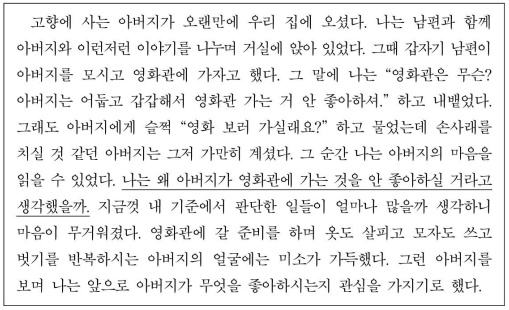
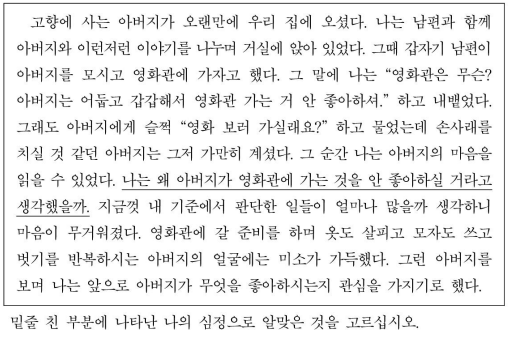
문제 title 출력

Changed region(s): [[0.0, 0.0, 1.0, 0.7839], [0.0, 0.9, 1.0, 0.9871], [0.0295, 0.8129, 0.9725, 0.871]]

diff --git a/NODE/routes/index.js b/NODE/routes/index.js
@@ -2,10 +2,9 @@ var express = require('express');
 const dbcon = require("../config/db_con");
 var router = express.Router();
 
-/* GET home page. */
 router.get('/', function(req, res, next) {
   console.log(req.session);
-  res.render('index', { title: 'Express', user_id : req.session.user_id });
+  res.render('index', { title: 'Dambi Topik', user_id : req.session.user_id });
 });
 router.get('/logout', function(req, res, next) {
   req.session.destroy(function(){ req.session;});  
@@ -16,8 +15,9 @@ router.get('/test',async  function(req, res, next) {
   var num = req.query.num++;
   var a=206000+num;
   var [quetion] = await dbcon("SELECT * FROM quetion WHERE code = ?",[a]);
+  var title=showTitle(num);
   req.session.answ = quetion.answ;
-  res.render('test', {answ : quetion.answ,num1 : quetion.num1, num2 : quetion.num2, num3 : quetion.num3 , num4 : quetion.num4 ,code : quetion.code , num:num});
+  res.render('test', {title:title ,answ : quetion.answ,num1 : quetion.num1, num2 : quetion.num2, num3 : quetion.num3 , num4 : quetion.num4 ,code : quetion.code , num:num});
 });
 router.post('/test',async  function(req, res, next) {
   var num = req.query.num++;
@@ -51,4 +51,72 @@ router.post('/test',async  function(req, res, next) {
     res.redirect('test?num='+num);
   }
 });
+
+function showTitle(a) {
+  if(a<=2)
+  {
+    return "(         )에 들어갈 가장 알맞은 것을 고르십시오.";
+  }
+  else if(a<=4)
+  {
+    return "다음 밑줄 친 부분과 의미가 비슷한 것을 고르십시오.";
+  }
+  else if(a<=8)
+  {
+    return "다음은 무엇에 대한 글인지 고르십시오.";
+  }
+  else if(a<=12)
+  {
+    return "다음 글 또는 그래프의 내용과 같은 것을 고르십시오.";
+  }
+  else if(a<=15)
+  {
+    return "다음을 순서대로 맞게 배열한 것을 고르십시오.";
+  }
+  else if(a<=18)
+  {
+    return "다음을 읽고(         )에 들어갈 내용으로 가장 알맞은 것을 고르십시오.";
+  }
+  else if(a<=24)
+  {
+    return "다음 글을 읽고 물음에 답하십시오.";
+  }
+  else if(a<=27)
+  {
+    return "다음 신문 기사의 제목을 가장 잘 설명한 것을 고르십시오.";
+  }
+  else if(a<=31)
+  {
+    return "다음을 읽고(         )에 들어갈 내용으로 가장 알맞은 것을 고르십시오.";
+  }
+  else if(a<=34)
+  {
+    return "다음을 읽고 내용이 같은 것을 고르십시오.";
+  }
+  else if(a<=38)
+  {
+    return "다음 글의 주제로 가장 알맞은 것을 고르십시오.";
+  }
+  else if(a<=41)
+  {
+    return "다음 글에서 <보기>의 문양이 들어가기에 가장 알맞은 곳을 고르십시오.";
+  }
+  else if(a<=43)
+  {
+    return "다음 글을 읽고 물음에 답하십시오.";
+  }
+  else if(a<=45)
+  {
+    return "다음을 읽고 물음에 답하십시오.";
+  }
+  else if(a<=47)
+  {
+    return "다음 글을 읽고 물음에 답하십시오.";
+  }
+  else if(a<=50)
+  {
+    return "다음을 읽고 물음에 답하십시오";
+  }
+}
+
 module.exports = router;

diff --git a/NODE/routes/quetion.js b/NODE/routes/quetion.js
@@ -28,7 +28,6 @@ router.post('/quetion_insert',/* upload.single('file'),*/async function(req, res
 });
 
 router.get('/quetion_list',/* upload.single('file'),*/async function(req, res, next) {
-  console.log('ok');
   var quetion = await dbcon("SELECT * FROM quetion ORDER BY code ASC");
   res.render('quetion_list', { title: 'quetion_list', quetion : quetion});
 });
